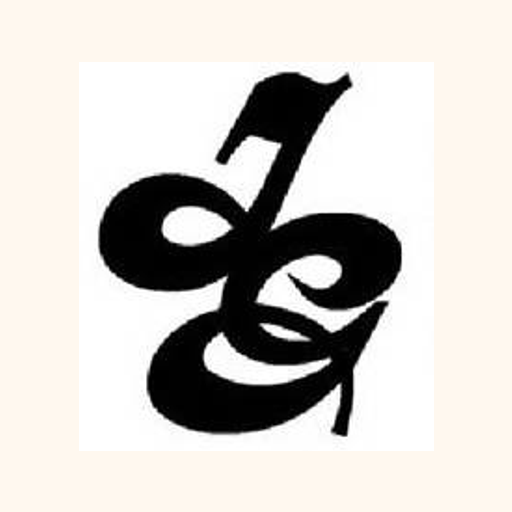
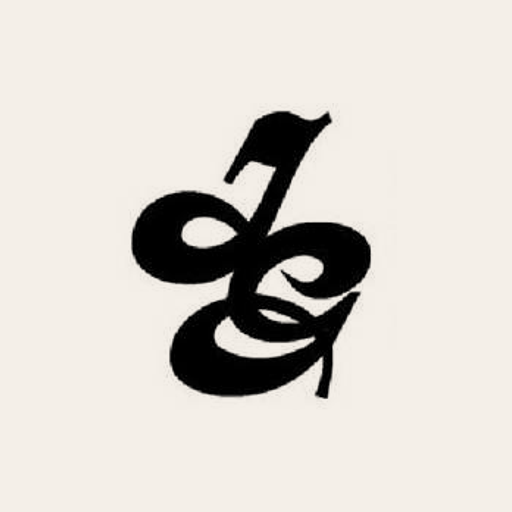
Splash apertura: wordmark su sfondo caldo + icone monogramma pulite
- index.html: overlay statico col wordmark disegnato subito (standalone
  a ogni apertura, browser una volta/sessione), sfondo #f4efe8 = manifest
  background_color per non avere stacco con lo splash di sistema.
- Rimosso il vecchio splash Angular (shell) per evitare doppioni.
- icon-192/512 rigenerate: monogramma scontornato, con padding, su #f4efe8
  (prima upscale sgranato su #fff8ef).
- iOS: apple-touch-startup-image col wordmark per i principali iPhone
  (public/splash/*), + apple-mobile-web-app-capable.
- ngsw-config: cache di /splash/*.png.

Changed region(s): [[0.1875, 0.125, 0.8125, 0.875], [0.75, 0.3438, 0.7812, 0.375]]

diff --git a/src/index.html b/src/index.html
@@ -8,14 +8,66 @@
     <meta name="theme-color" content="#e8dcc8" />
     <link rel="manifest" href="manifest.webmanifest" />
     <link rel="apple-touch-icon" href="icon-192.png" />
+    <meta name="apple-mobile-web-app-capable" content="yes" />
+    <meta name="apple-mobile-web-app-status-bar-style" content="default" />
+    <!-- Schermate d'avvio iOS: il wordmark su sfondo caldo (#f4efe8) invece del bianco -->
+    <link rel="apple-touch-startup-image" href="splash/apple-splash-1290x2796.png" media="screen and (device-width: 430px) and (device-height: 932px) and (-webkit-device-pixel-ratio: 3) and (orientation: portrait)" />
+    <link rel="apple-touch-startup-image" href="splash/apple-splash-1179x2556.png" media="screen and (device-width: 393px) and (device-height: 852px) and (-webkit-device-pixel-ratio: 3) and (orientation: portrait)" />
+    <link rel="apple-touch-startup-image" href="splash/apple-splash-1284x2778.png" media="screen and (device-width: 428px) and (device-height: 926px) and (-webkit-device-pixel-ratio: 3) and (orientation: portrait)" />
+    <link rel="apple-touch-startup-image" href="splash/apple-splash-1170x2532.png" media="screen and (device-width: 390px) and (device-height: 844px) and (-webkit-device-pixel-ratio: 3) and (orientation: portrait)" />
+    <link rel="apple-touch-startup-image" href="splash/apple-splash-1125x2436.png" media="screen and (device-width: 375px) and (device-height: 812px) and (-webkit-device-pixel-ratio: 3) and (orientation: portrait)" />
+    <link rel="apple-touch-startup-image" href="splash/apple-splash-1242x2688.png" media="screen and (device-width: 414px) and (device-height: 896px) and (-webkit-device-pixel-ratio: 3) and (orientation: portrait)" />
+    <link rel="apple-touch-startup-image" href="splash/apple-splash-828x1792.png" media="screen and (device-width: 414px) and (device-height: 896px) and (-webkit-device-pixel-ratio: 2) and (orientation: portrait)" />
+    <link rel="apple-touch-startup-image" href="splash/apple-splash-1242x2208.png" media="screen and (device-width: 414px) and (device-height: 736px) and (-webkit-device-pixel-ratio: 3) and (orientation: portrait)" />
+    <link rel="apple-touch-startup-image" href="splash/apple-splash-750x1334.png" media="screen and (device-width: 375px) and (device-height: 667px) and (-webkit-device-pixel-ratio: 2) and (orientation: portrait)" />
     <link rel="icon" type="image/png" href="logo-icon.png" />
     <link rel="preconnect" href="https://fonts.googleapis.com" />
     <link rel="preconnect" href="https://fonts.gstatic.com" crossorigin />
     <link href="https://fonts.googleapis.com/css2?family=Fraunces:ital,wght@0,400;0,500;0,600;0,700;1,400&family=DM+Sans:opsz,wght@9..40,400;9..40,500;9..40,600;9..40,700&display=swap" rel="stylesheet" />
     <link href="https://fonts.googleapis.com/icon?family=Material+Icons" rel="stylesheet" />
     <script src="https://accounts.google.com/gsi/client" async defer></script>
+    <style>
+      /* Splash d'apertura: disegnato subito, prima ancora che Angular parta.
+         Sfondo uguale al background_color del manifest → nessuno stacco con
+         lo splash di sistema (che mostra l'icona centrata sullo stesso sfondo). */
+      #boot-splash {
+        position: fixed; inset: 0; z-index: 9999;
+        display: flex; align-items: center; justify-content: center;
+        padding: 32px; background: #f4efe8;
+        transition: opacity .35s ease;
+      }
+      #boot-splash img { max-width: 90%; max-height: 230px; object-fit: contain; }
+      #boot-splash.hide { opacity: 0; pointer-events: none; }
+    </style>
   </head>
   <body>
     <app-root></app-root>
+    <div id="boot-splash">
+      <img src="logo-wordmark.png" width="458" height="170" alt="Insieme per Ganaceto" />
+    </div>
+    <script>
+      (function () {
+        var s = document.getElementById('boot-splash');
+        if (!s) return;
+        var standalone =
+          window.matchMedia('(display-mode: standalone)').matches ||
+          window.navigator.standalone === true;
+        // Nel browser: una volta per sessione. Nell'app installata: a ogni apertura.
+        if (!standalone && sessionStorage.getItem('ganaceto_splash')) {
+          s.parentNode && s.parentNode.removeChild(s);
+          return;
+        }
+        sessionStorage.setItem('ganaceto_splash', '1');
+        var hidden = false;
+        function hide() {
+          if (hidden) return;
+          hidden = true;
+          s.classList.add('hide');
+          setTimeout(function () { s.parentNode && s.parentNode.removeChild(s); }, 400);
+        }
+        s.addEventListener('click', hide);
+        setTimeout(hide, 1800);
+      })();
+    </script>
   </body>
 </html>

diff --git a/src/app/components/shell/shell.ts b/src/app/components/shell/shell.ts
@@ -50,10 +50,6 @@ export class Shell {
   // indicatore "online ora" verosimile (di notte ~0, di giorno oscilla 4-6, sera 5-7)
   readonly online = signal(4);
 
-  // splash d'apertura: solo nel browser e una volta per sessione.
-  // Nell'app installata (standalone) NON lo mostriamo: c'è già quello del sistema.
-  readonly splashVisible = signal(!this.install.installed() && !sessionStorage.getItem('ganaceto_splash'));
-
   // fumetto "N utenti online ora!" al tocco del pallino
   readonly onlineTip = signal(false);
   private tipTimer: ReturnType<typeof setTimeout> | undefined;
@@ -61,11 +57,6 @@ export class Shell {
   constructor() {
     this.tickOnline();
     const onlineTimer = setInterval(() => this.tickOnline(), 16000);
-    let splashTimer: ReturnType<typeof setTimeout> | undefined;
-    if (this.splashVisible()) {
-      sessionStorage.setItem('ganaceto_splash', '1');
-      splashTimer = setTimeout(() => this.splashVisible.set(false), 1400);
-    }
 
     // aggiorna il contatore notifiche al login e periodicamente
     effect(() => {
@@ -96,7 +87,6 @@ export class Shell {
     inject(DestroyRef).onDestroy(() => {
       clearInterval(onlineTimer);
       clearInterval(notifTimer);
-      clearTimeout(splashTimer);
       clearTimeout(this.tipTimer);
       document.removeEventListener('visibilitychange', onVisible);
       window.removeEventListener('focus', onVisible);
@@ -121,10 +111,6 @@ export class Shell {
 
   openNotifiche(): void {
     this.bottomSheet.open(NotificheSheet);
-  }
-
-  hideSplash(): void {
-    this.splashVisible.set(false);
   }
 
   private tickOnline(): void {

diff --git a/src/app/components/shell/shell.scss b/src/app/components/shell/shell.scss
@@ -165,19 +165,6 @@
 }
 .tab .ico { font-size: 23px; line-height: 1; transition: transform .2s ease; }
 
-/* ── Splash ─────────────────────────────────────────── */
-.splash {
-  position: fixed; inset: 0; z-index: 90;
-  background: #fff8ef;
-  display: flex; flex-direction: column; align-items: center; justify-content: center; gap: 20px;
-  padding: 32px;
-  animation: splashFade .3s ease;
-}
-.splash-mark { max-width: 90%; max-height: 230px; object-fit: contain; }
-.splash-hint { font-size: 12px; color: var(--muted); letter-spacing: .05em; animation: splashPulse 1.6s ease-in-out infinite; }
-@keyframes splashPulse { 0%,100% { opacity: .45; } 50% { opacity: 1; } }
-@keyframes splashFade { from { opacity: 0; } to { opacity: 1; } }
-
 /* ── Desktop: barra in alto + sidebar, niente tab in fondo ── */
 @media (min-width: 900px) {
   .tabbar { display: none; }

diff --git a/src/app/components/shell/shell.html b/src/app/components/shell/shell.html
@@ -94,12 +94,4 @@
     }
   </nav>
 
-  <!-- Splash d'apertura -->
-  @if (splashVisible()) {
-    <div class="splash" (click)="hideSplash()">
-      <img class="splash-mark" src="logo-wordmark.png" width="458" height="170" alt="Insieme per Ganaceto" />
-      <div class="splash-hint">Tocca per entrare</div>
-    </div>
-  }
-
 </div>